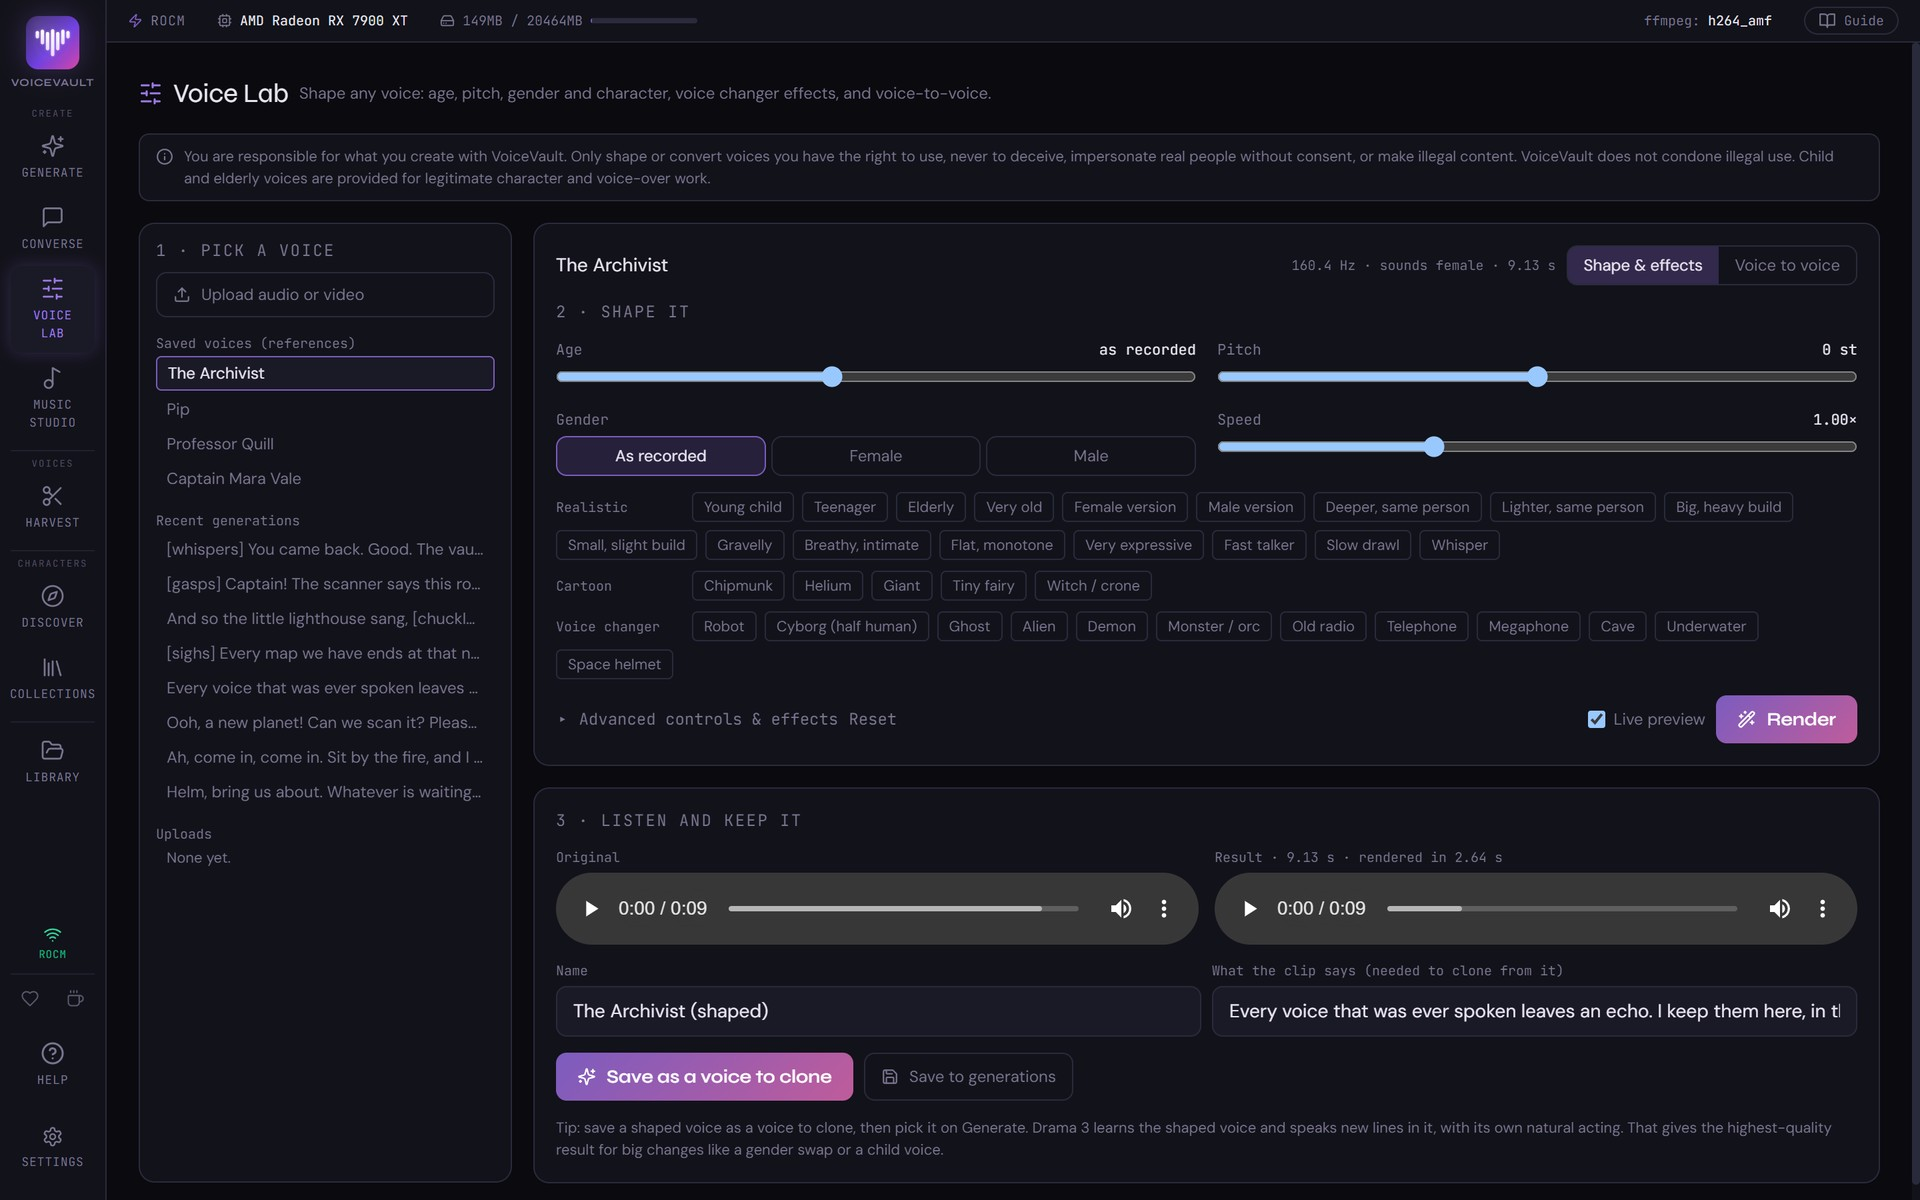
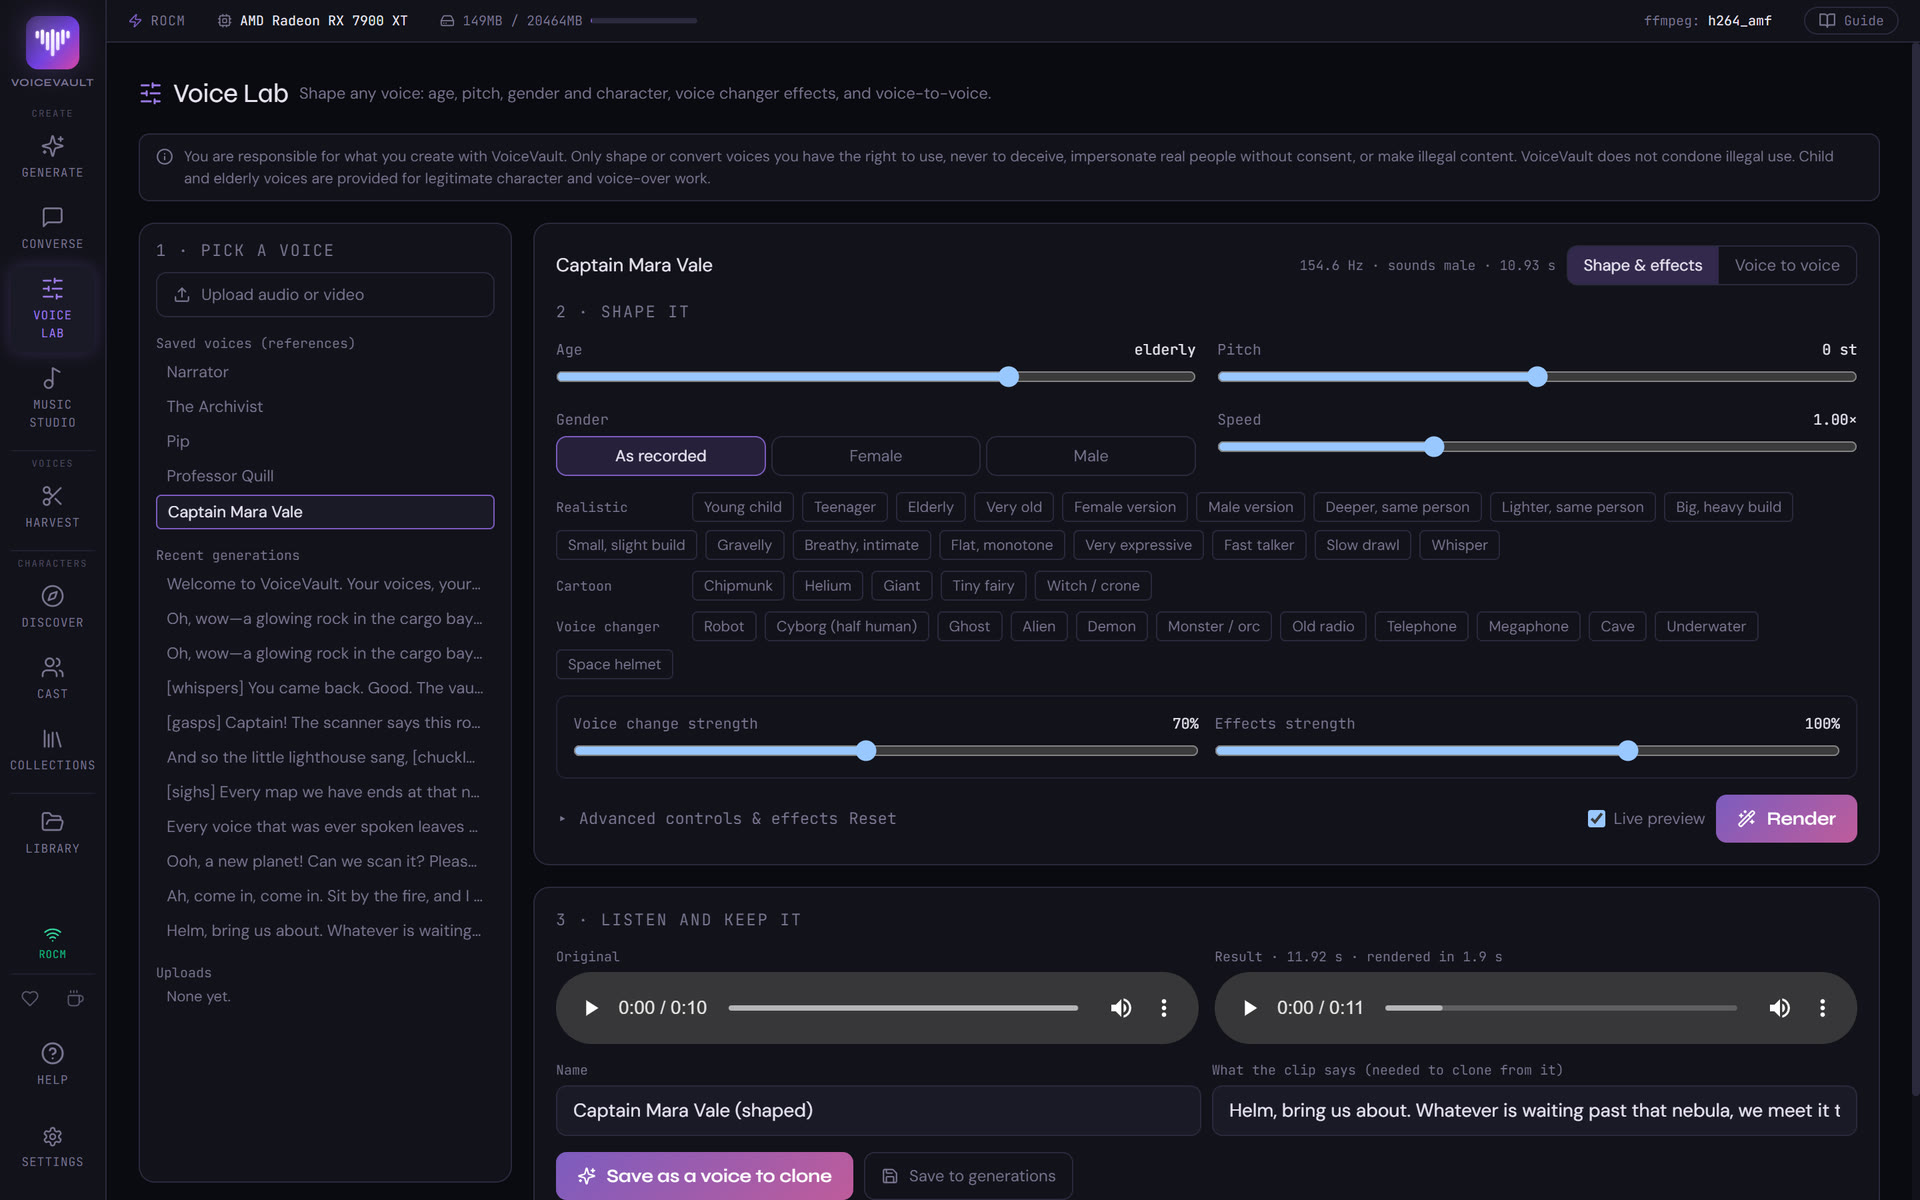
Refresh README screenshots and text for 0.2.1
- Retake every screenshot from a clean copy of the demo profile: the Cast
  entry in the sidebar, Voice Lab strength sliders, Generate's pace and
  pacing tags, Drama 3 sizes with quality labels, and the Daylight theme.
- README: pacing, Voice Lab strength, reply replay and Drama 3 sizes in
  the feature list and captions.
- Agent manual: vv_speak pace and vv_voice_shape strength.

diff --git a/README.md b/README.md
@@ -23,14 +23,15 @@ VoiceVault runs AI voice, music and chat models on your own PC. Your audio, voic
 
 ## What it does
 
-- **Generate** — turn text into speech in any voice. Clone a voice from a 10–30 second clip, or describe a new one in words. Multi-speaker scenes and emotion cues. The default engine is Fish Audio Drama 3.
-- **Voice Lab** — change a voice's age, pitch, gender and speed, add effects, or re-voice your own performance as another voice ("voice to voice").
+- **Generate** — turn text into speech in any voice. Clone a voice from a 10–30 second clip, or describe a new one in words. Multi-speaker scenes and emotion cues. **Pacing** works with every voice model: set the pace between sentences, or write `[pause 0.8s]`, `[slow]…[/slow]` and `[fast]…[/fast]` right in the text. The default engine is Fish Audio Drama 3.
+- **Voice Lab** — change a voice's age, pitch, gender and speed, add effects, or re-voice your own performance as another voice ("voice to voice"). **Strength** sliders dial any preset or effect from subtle to exaggerated.
 - **Harvest** — get a clean voice clip from a file or a public link. Remove music, isolate one speaker, remove noise and restore quality, then save it as a voice to clone.
 - **Music Studio** — write full songs from lyrics and a style, edit parts of a song, split it into stems, analyse tempo and key, and make **sound effects** from a text description. Every edit makes a new take, so nothing is lost.
-- **Converse and Scene Creation** — chat with AI characters, one-on-one or up to six at once, each speaking in their own voice. **Long-term memory** keeps long chats coherent, even with small local models. Pick **who you play** with your own personas and avatars.
+- **Converse and Scene Creation** — chat with AI characters, one-on-one or up to six at once, each speaking in their own voice. **Long-term memory** keeps long chats coherent, even with small local models. Pick **who you play** with your own personas and avatars, and **replay** any spoken reply.
 - **Cast** — set a character up once (portrait, persona, voice) and use them in any chat or scene. **Craft with AI** builds a lore-accurate persona for an established character from their Wikipedia article: every statement is checked against an exact quote, and anything unconfirmed is listed for you instead of being used. Or describe an idea and get an original character. **Voice auditions** design a voice to match, and Whisper flags garbled takes.
 - **Discover, Organize, Tier lists** — find shows, films, games and characters, save them, and rank them.
 - **Library** — every piece of audio in one searchable list.
+- **Models** — download each model from its official source, with its licence shown. Drama 3 is converted on your PC, and you choose its size (Q2 to Q8) to fit your graphics card; the app tells you plainly that smaller sizes can lose quality.
 - **Updates** — VoiceVault tells you when a new version is out, then downloads and installs it from inside the app when you click.
 - **AI-agent tools** — let an AI agent (a local model in LM Studio, Claude Desktop or any MCP client) speak lines, reshape voices, compose music and craft cast personas through VoiceVault. Agents can't delete or overwrite anything. See [docs/AGENT_MANUAL.md](docs/AGENT_MANUAL.md).
 
@@ -41,15 +42,15 @@ Built-in guides explain every page: press **Guide** at the top right of any page
 | | |
 |---|---|
 | ![Cast: a character with a lore-checked persona, sources and a voice](docs/screenshots/cast.jpg) | ![Converse: chatting as your own persona, with avatars on both sides](docs/screenshots/converse.jpg) |
-| **Cast:** a persona built from sources, each statement checked, with its voice auditioned. | **Converse:** chat as your own persona; characters remember, and every reply is spoken. |
+| **Cast:** a persona built from sources, each statement checked, with its voice auditioned. | **Converse:** chat as your own persona; characters remember, every reply is spoken, and any reply can be replayed or spoken again. |
 | ![Craft with AI: research and check a persona](docs/screenshots/cast-craft.jpg) | ![Sources, open questions and the auditioned voice of a cast member](docs/screenshots/cast-sources.jpg) |
 | **Craft with AI:** reads the character's Wikipedia article, then checks every statement against a quote. | **Checked, not guessed:** sources with links; guesses go to Open questions; the voice was auditioned and Whisper-checked. |
-| ![Generate speech in a saved voice with Fish Audio Drama 3](docs/screenshots/generate.jpg) | ![Voice Lab with age, pitch, gender and effect presets](docs/screenshots/voicelab.jpg) |
-| **Generate:** type a line, pick a voice, press Generate. | **Voice Lab:** reshape a voice or turn it into a robot, a ghost or a giant. |
+| ![Generate: a line with a pause tag and a slow section, and the Pace setting](docs/screenshots/generate.jpg) | ![Voice Lab: the Elderly preset at 70% strength](docs/screenshots/voicelab.jpg) |
+| **Generate:** type a line, pick a voice, press Generate. Pace and tags such as `[pause 0.8s]` set the rhythm. | **Voice Lab:** reshape a voice or turn it into a robot, a ghost or a giant, at any strength. |
 | ![Music Studio with a song's waveform, style builder and lyrics](docs/screenshots/music.jpg) | ![Discover: browse anime, films, TV, games and characters](docs/screenshots/discover.jpg) |
 | **Music Studio:** compose songs from lyrics and a style, then measure and remix them. | **Discover:** browse and favourite shows, films, games and characters. |
-| ![Library: every voice, generation and song in one list](docs/screenshots/library.jpg) | ![Settings: download models and see each licence](docs/screenshots/settings-models.jpg) |
-| **Library:** every piece of audio, searchable and labelled. | **Models:** one-click downloads from official sources, with each licence shown. |
+| ![Library: every voice, generation and song in one list](docs/screenshots/library.jpg) | ![Settings: Drama 3 sizes with quality warnings, and each model's licence](docs/screenshots/settings-models.jpg) |
+| **Library:** every piece of audio, searchable and labelled. | **Models:** one-click downloads from official sources, each licence shown, and Drama 3 sizes with honest quality labels. |
 | ![Harvest: four steps from a recording to a clean voice](docs/screenshots/harvest.jpg) | |
 | **Harvest:** turn a recording into a clean voice to clone, in four steps. | |
 

diff --git a/docs/AGENT_MANUAL.md b/docs/AGENT_MANUAL.md
@@ -48,11 +48,11 @@ Replace `<VoiceVault folder>` with the install folder; use forward slashes, or d
 | `vv_status` | Is VoiceVault up; ready speech models; music tools. **Call first.** | no |
 | `vv_list_speech_models` | Ready speech models, and whether each can clone, describe a voice, languages, emotion tags | no |
 | `vv_list_voices` | Saved voices (cloning references), filter by words | no |
-| `vv_speak` | Text → speech, saved to Library/Generations; clone a saved `voice` or use a `voice_description` | adds a file |
+| `vv_speak` | Text → speech, saved to Library/Generations; clone a saved `voice` or use a `voice_description`. `pace` (tight/natural/relaxed/dramatic) and tags in the text (`[pause 0.8s]`, `[slow]…[/slow]`, `[fast]…[/fast]`) set the rhythm | adds a file |
 | `vv_library_search` | Search all audio by words, type, character, label | no |
 | `vv_library_tag` | Add/remove labels, set category, notes, title, character/actor | metadata only |
 | `vv_voice_presets` | Voice Lab presets (age, gender, characters, effects) | no |
-| `vv_voice_shape` | Apply a preset to a voice or generation → preview | preview only |
+| `vv_voice_shape` | Apply a preset to a voice or generation → preview; `strength` and `effects_strength` (0–2) dial it from subtle to exaggerated | preview only |
 | `vv_voice_convert` | Voice-to-voice: delivery of one, sound of another saved voice → preview (slow: ~5–7× clip length) | preview only |
 | `vv_voice_save` | Keep a preview as a generation or as a new voice | adds a file |
 | `vv_music_list_songs` | Songs, or one song in detail (style, lyrics, takes, analysis) | no |
